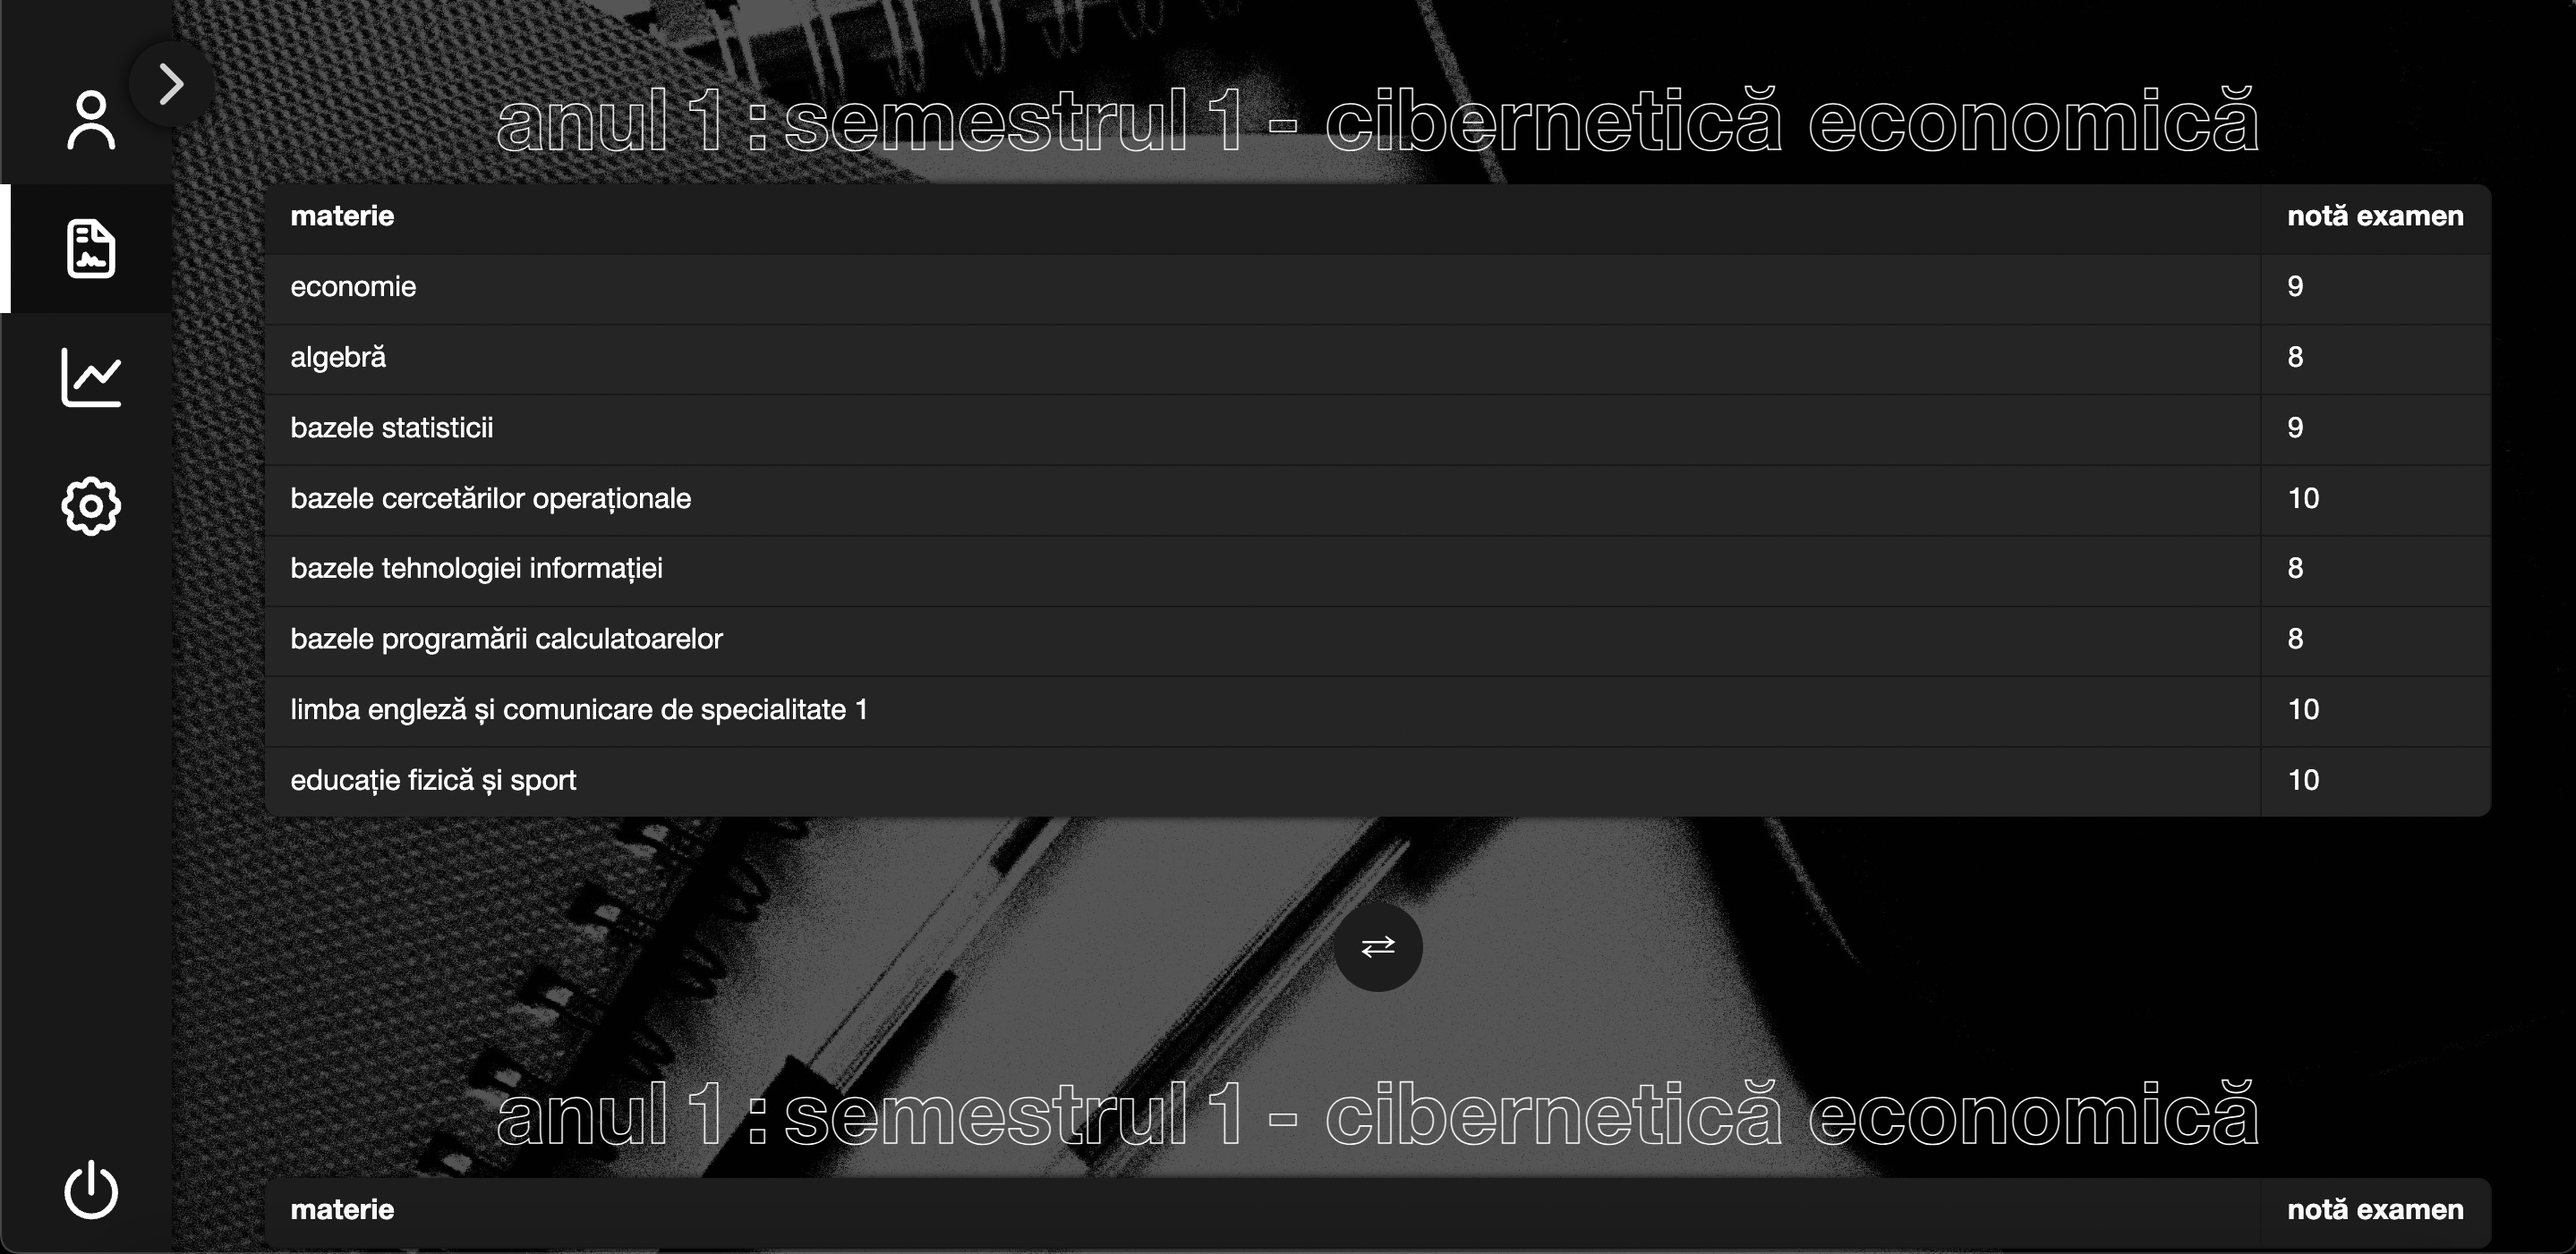
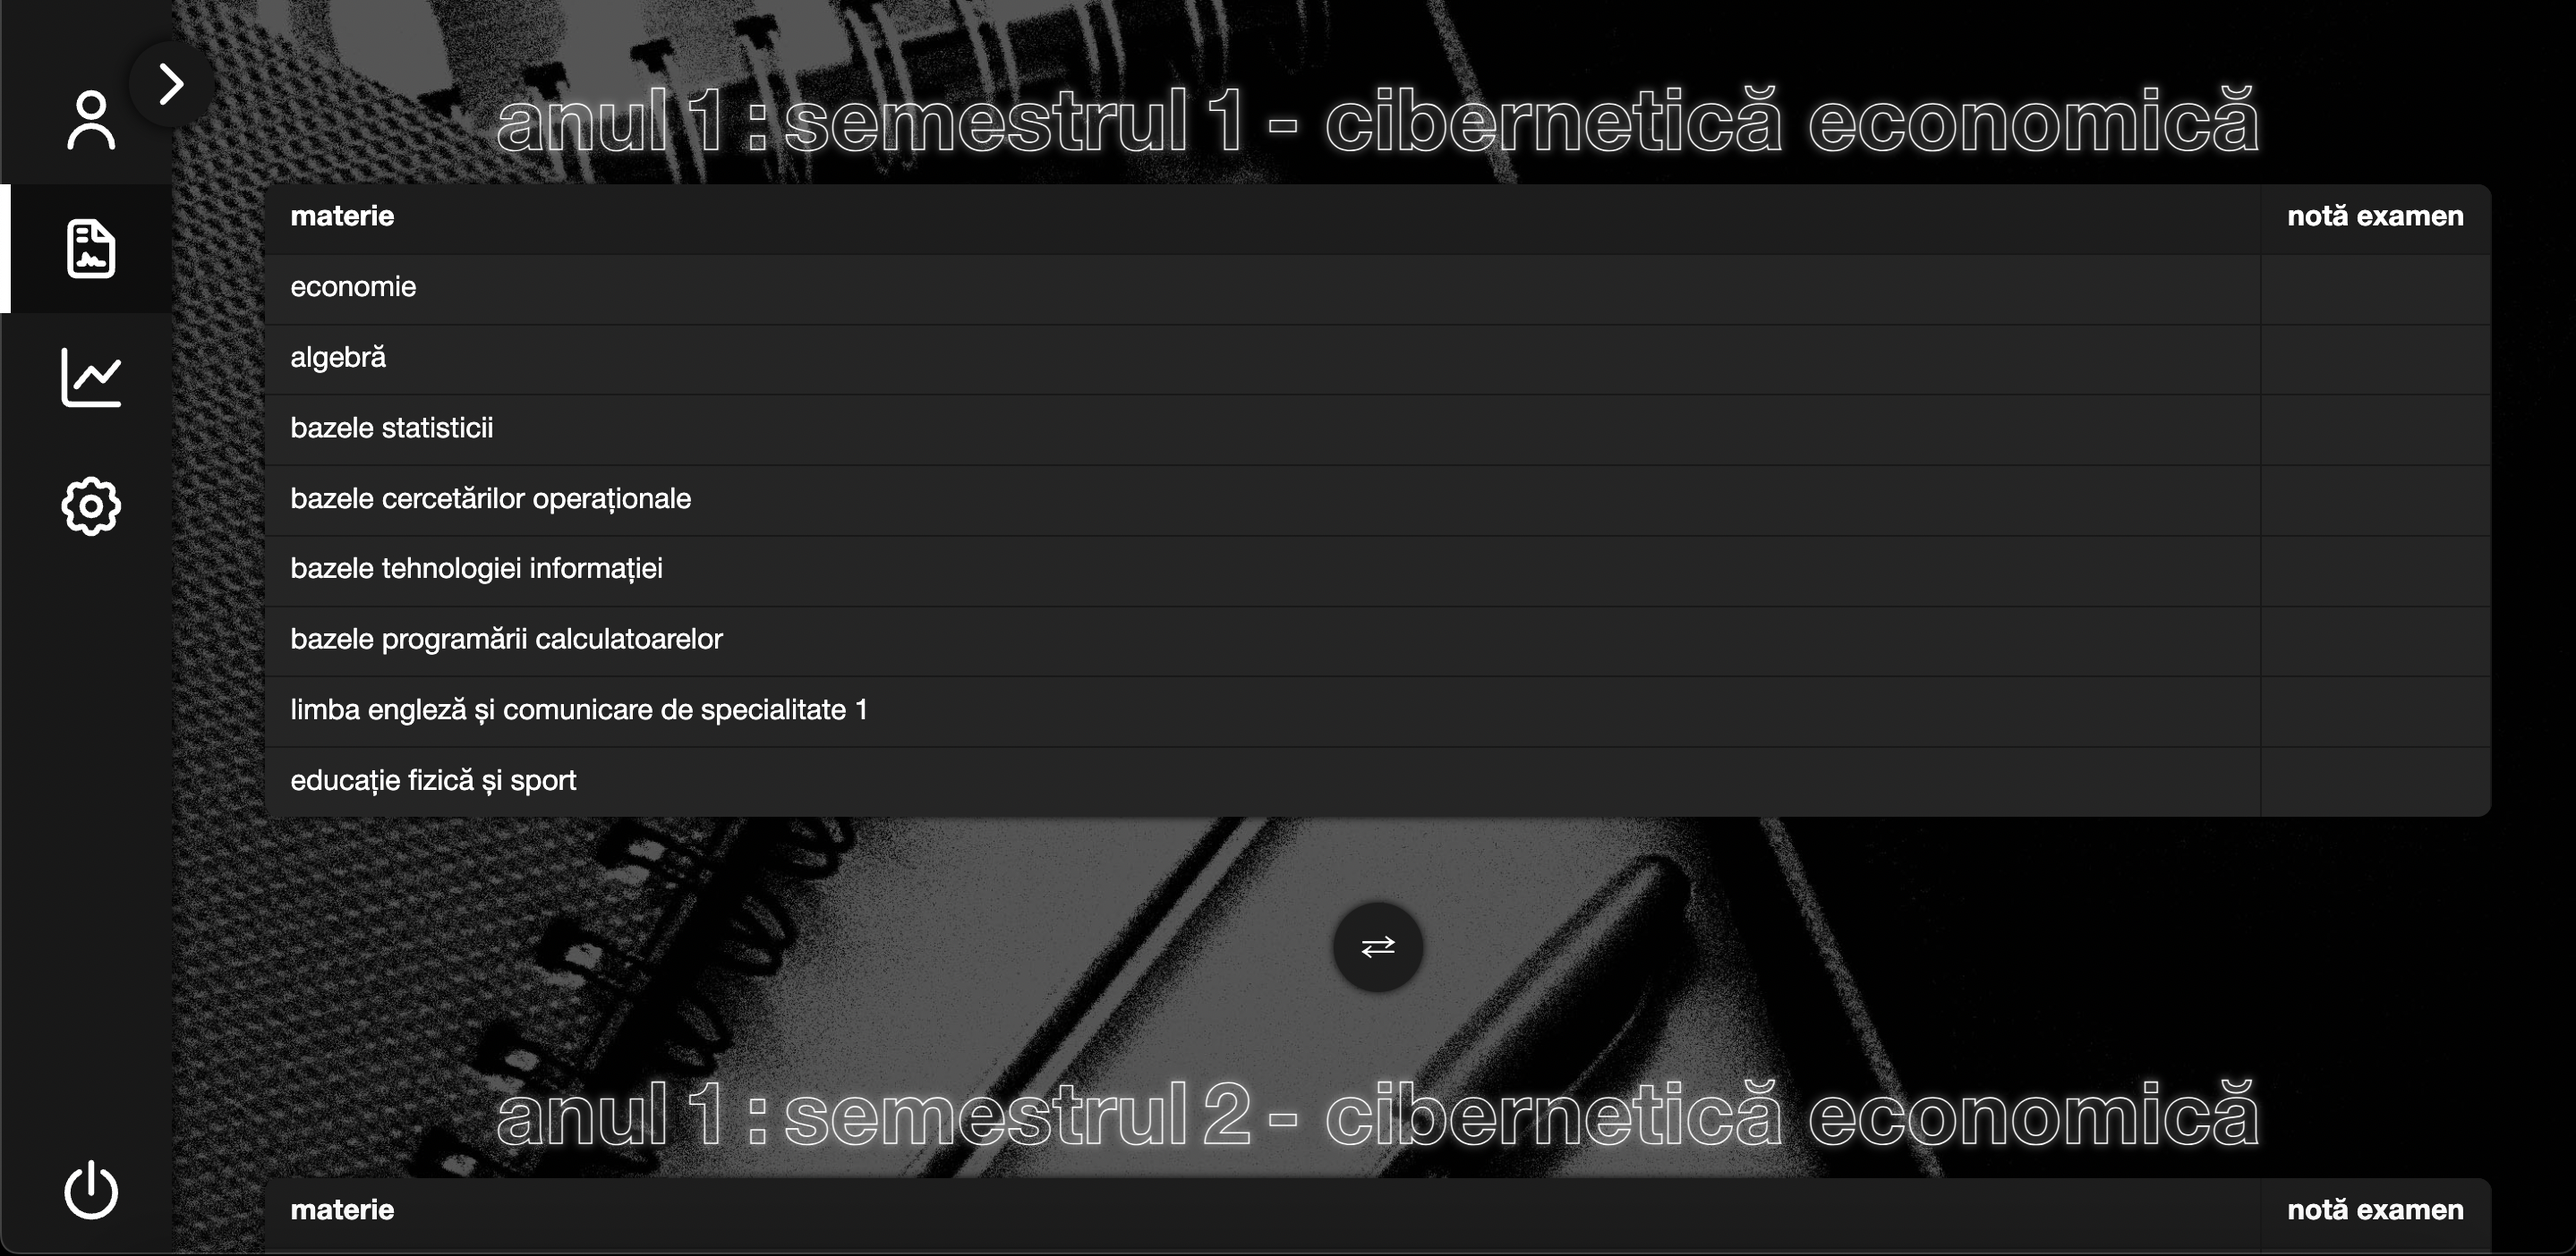
text glow + btn shadow

Changed region(s): [[0.0, 0.0, 0.8968, 1.0], [0.7422, 0.9508, 1.0, 1.0]]

diff --git a/templates/homepage/dashboard.html b/templates/homepage/dashboard.html
@@ -38,12 +38,12 @@
 <div class="dashboard_wrapper">
 <div class="dashboard_content">
     <div class="dashboard_headers">
-        <h1>anul</h1>
-        <h1 contenteditable="true" class="an">1</h1>
-        <h1>:</h1>
-        <h1>semestrul</h1>
-        <h1 contenteditable="true" class="semestru">1</h1>
-        <h1> - cibernetică economică</h1>
+        <h1 class="glow">anul</h1>
+        <h1 contenteditable="true" class="an glow">1</h1>
+        <h1 class="glow">:</h1>
+        <h1 class="glow">semestrul</h1>
+        <h1 contenteditable="true" class="semestru glow">1</h1>
+        <h1 class="glow"> - cibernetică economică</h1>
     </div>
     <table class="dashboard_table">
         <thead>
@@ -69,12 +69,12 @@
 </div>
 <div class="dashboard_content">
     <div class="dashboard_headers">
-        <h1>anul</h1>
-        <h1 class="an">1</h1>
-        <h1>:</h1>
-        <h1>semestrul</h1>
-        <h1 class="semestru">1</h1>
-        <h1> - cibernetică economică</h1>
+        <h1 class="glow">anul</h1>
+        <h1 class="an glow">1</h1>
+        <h1 class="glow">:</h1>
+        <h1 class="glow">semestrul</h1>
+        <h1 class="semestru glow">2</h1>
+        <h1 class="glow"> - cibernetică economică</h1>
     </div>
     <table class="dashboard_table">
         <thead>
@@ -84,6 +84,14 @@
             </tr>
         </thead>
         <tbody>
+            <tr><td>analiză matematică</td><td contenteditable="true" class="nota"></td></tr>
+            <tr><td>statistică</td><td contenteditable="true" class="nota"></td></tr>
+            <tr><td>algoritmi și tehnici de programare</td><td contenteditable="true" class="nota"></td></tr>
+            <tr><td>sisteme de operare</td><td contenteditable="true" class="nota"></td></tr>
+            <tr><td>bazele ciberneticii economice</td><td contenteditable="true" class="nota"></td></tr>
+            <tr><td>marketing</td><td contenteditable="true" class="nota"></td></tr>
+            <tr><td>contabilitate</td><td contenteditable="true" class="nota"></td></tr>
+            <tr><td>educație fizică și sport</td><td contenteditable="true" class="nota"></td></tr>
         </tbody>
     </table>
 </div>

diff --git a/static/css/style_home.css b/static/css/style_home.css
@@ -126,6 +126,23 @@
     font-display: swap;
   }
 
+.glow {
+  display: inline-block;
+  -webkit-animation: glow 1s ease-in-out infinite alternate;
+  -moz-animation: glow 1s ease-in-out infinite alternate;
+  animation: glow 1s ease-in-out infinite alternate;
+  filter:drop-shadow(1px 0px 1px #fff);
+}
+  
+@keyframes glow {
+  from {
+    filter:drop-shadow(0px 0px 1px #fff);
+  }
+  to {
+      filter:drop-shadow(0px 0px 5px #fff);
+  }
+}
+
 .invert {
     -webkit-filter: invert(1);
     filter: invert(1);
@@ -377,8 +394,9 @@ body {
   color: white;
   border: none;
   transition: background-color 0.3s;
+  box-shadow: 0px 0px 5px black;
 }
 
-.switch_button:hover {
-  background-color: rgb(24, 24, 24);
+.ml_button:hover {
+  background-color: rgb(17, 17, 17);
 }
